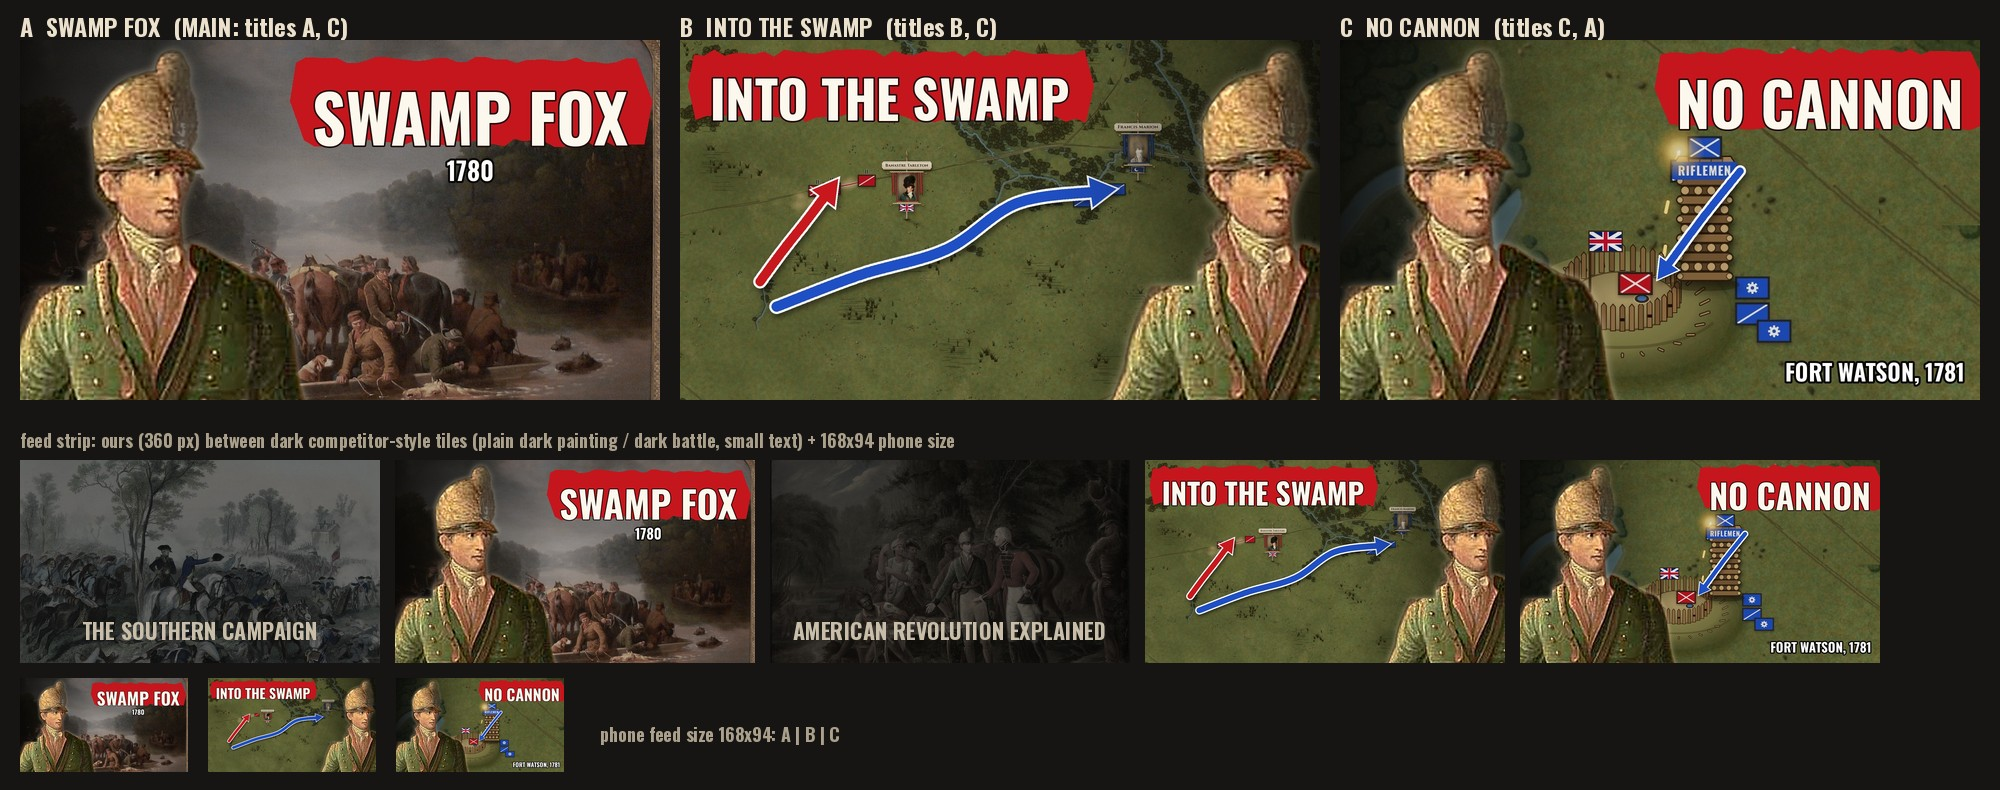
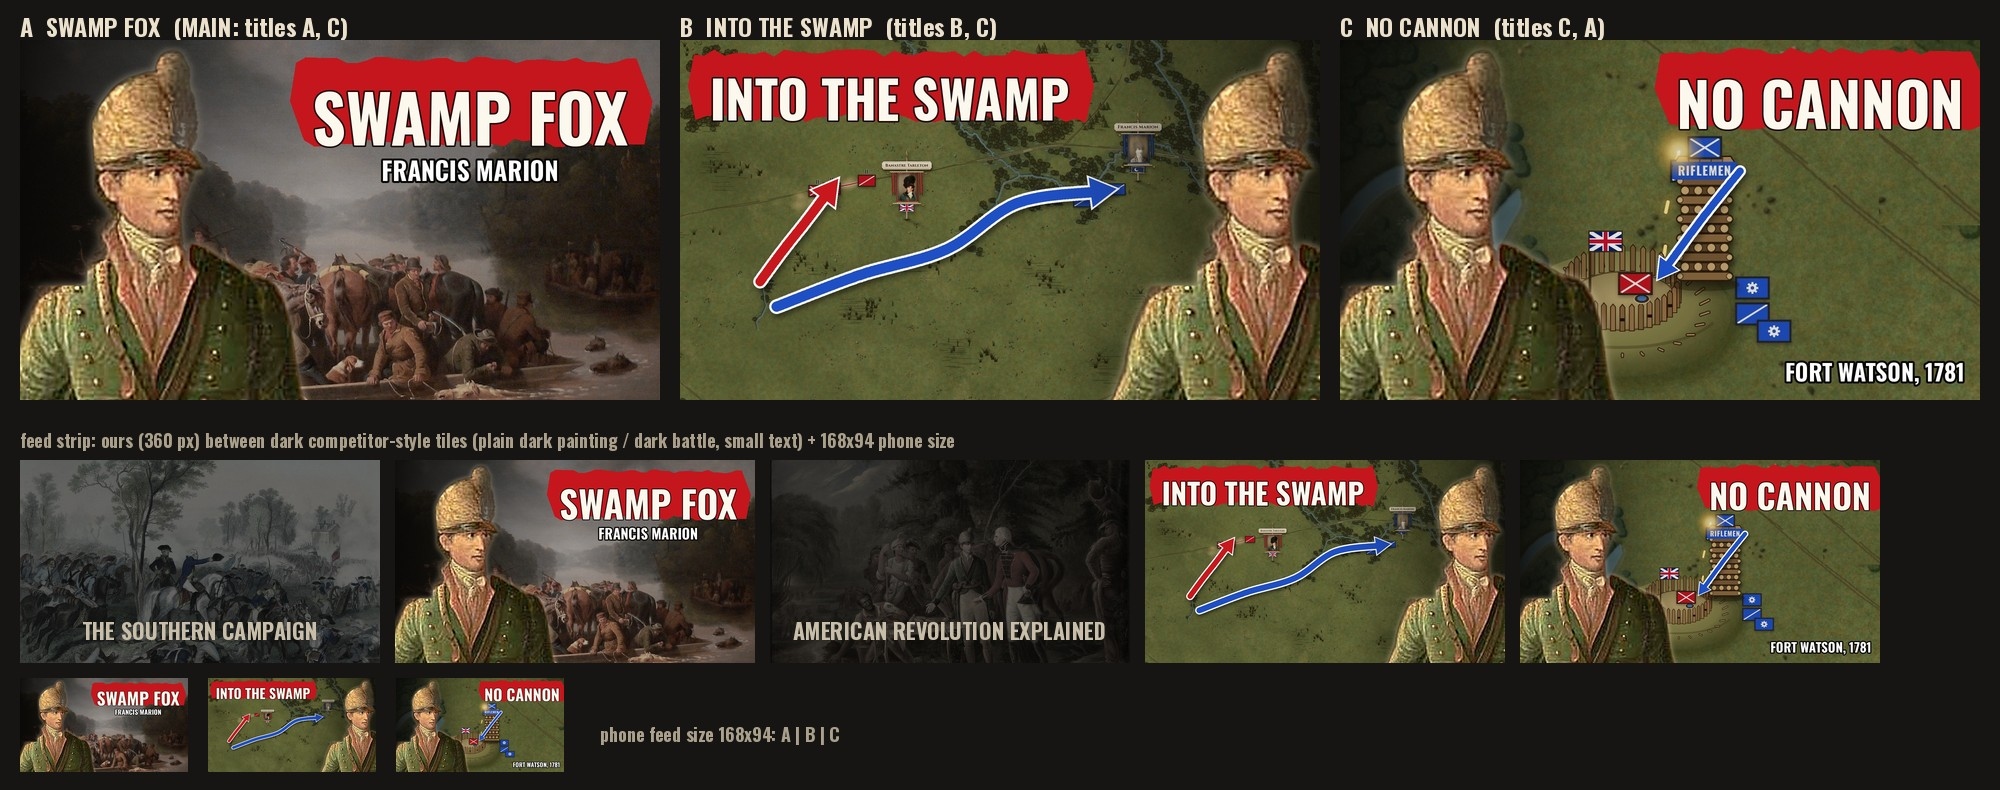
Marion #18: packaging (3 titles, 3 thumbnails + sheet, description, tags)
Claude-Session: https://claude.ai/code/session_011uJnjBffWtk5uPnY98RFHf

diff --git a/marion/tools/make_thumb_marion.py b/marion/tools/make_thumb_marion.py
@@ -118,7 +118,7 @@ rn = ImageEnhance.Brightness(ImageEnhance.Color(rn).enhance(0.6)).enhance(0.72)
 rn = ImageEnhance.Contrast(rn).enhance(1.1)
 A = rn.convert("RGBA"); shade(A, "left", 640)
 face(A, -60, 735)
-banner(A, "SWAMP FOX", 900, 40, size=132, tag="1780")
+banner(A, "SWAMP FOX", 900, 40, size=132, tag="FRANCIS MARION")
 pA = save(A, "A_SWAMP_FOX")
 
 # ---------- B: INTO THE SWAMP (our map, 8 Nov 1780 chase)

diff --git a/marion/youtube/packaging.md b/marion/youtube/packaging.md
@@ -1,0 +1,45 @@
+# Francis Marion #18 packaging (PACKAGING_GUIDE 0b) — draft 2026-11-14
+
+Not scored with vidIQ (no external services for this draft): the owner scores the titles (target >= 85) before upload.
+Every claim below is checked against `marion/research/FACT_NOTES.md` (row named in the last column). The Patriot (2000) is never referenced.
+
+## Titles
+| | Title | Chars | Claims -> FACT_NOTES row |
+|---|---|---|---|
+| **A** (locked format, recommended main) | Francis Marion's Top 3 Legendary Tactical Moves \| The Swamp Fox Tarleton Couldn't Catch | 87 | Move 2: "8 Nov: Tarleton followed seven hours, through swamps and defiles" + "Tarleton halted at Ox Swamp" (C) + "Tarleton's own account: an express from Cornwallis recalled him" (C). "Swamp Fox": "Swamp Fox first in print in the 1840s (Simms 1844)" (C; the video says the nickname came later) |
+| **B** (famous name / curiosity) | How the Swamp Fox Escaped Tarleton Through the Swamps of South Carolina | 71 | Move 2: "Marion fell back over the Woodyard swamp in the most profound darkness" (C, James); "Marion rode thirty-five miles, through woods, and swamps and bogs" (C, James); Tarleton's pursuit "seven hours" (C, Tarleton 1787) |
+| **C** (hybrid: name + the three moves) | Francis Marion, the Swamp Fox: Night Raids, a Swamp Chase and a Fort Taken Without Cannon | 89 | Move 1: Black Mingo 28-29 Sept + Tearcoat 24-25 Oct night attacks (C, James). Move 2: 8 Nov chase (C). Move 3: "No cannon on either side (the six-pounder Greene sent arrived too late)" at Fort Watson + "Lt. McKay surrendered 23 Apr" (C, Lee; Marion) |
+
+A alternatives (same format, also true): "| The Man Tarleton Couldn't Catch" (same rows); "| The Man Who Freed 150 Prisoners With 70 Riders" (Stakes rows: "Marion had seventy men" FIX, "~150 Maryland Continentals freed" C).
+Avoid (not sourced / false): "the devil himself could not catch him" as a fact (TRAD, James 1821, no witness); "40-foot tower" (no height stated: FIX); "Saved the Revolution / won the South" (not in FACT_NOTES); "Tarleton gave him the name" (nickname first in print 1844); any Patriot/Mel Gibson reference; "never lost" (Parker's Ferry withdrawal, Eutaw militia fell back).
+
+## Thumbnails (`thumb/`, tool `marion/tools/make_thumb_marion.py`, sheet `thumb/sheet.jpg`)
+Face in all three = Marion from John Blake White's painting (1810, MFA Boston, PD), cut out and given the face pop (contrast/colour + faint warm rim). It is the only colour image of Marion we have; no life portrait exists (FACT_NOTES "Honest ledger": "No portrait made in his lifetime is known"). The description says so. No AI images; all images from `marion/assets/media` (CREDITS.md) or our own map frames.
+
+| | File | Context image | Words | Fits titles | Claim -> FACT_NOTES |
+|---|---|---|---|---|---|
+| **1 (recommended MAIN)** | `marion-thumb-A_SWAMP_FOX.jpg` | Ranney, *Marion Crossing the Pee Dee* (1850, PD), darkened/desaturated | SWAMP FOX (+ small FRANCIS MARION) | A, C (B ok) | nickname row (C, Simms 1844); Ranney label in CREDITS ("PAINTED IN 1850") |
+| 2 | `marion-thumb-B_INTO_THE_SWAMP.jpg` | our map, 8 Nov 1780 chase (scene m2b at 21 s): Tarleton's red route, Marion's blue route, both banners | INTO THE SWAMP | B, C (A ok) | Woodyard swamp / "swamps and defiles" (C) |
+| 3 | `marion-thumb-C_NO_CANNON.jpg` | our map, Fort Watson 23 Apr 1781 (scene m3b at 56 s): Maham's log tower over the stockade, riflemen firing down | NO CANNON (+ small FORT WATSON, 1781) | C, A | "No cannon on either side" + tower + surrender 23 Apr (C) |
+
+Recommendation: **title A + thumbnail 1 (SWAMP FOX) as main**; Test & Compare thumbnails 2 and 3 (and title B/C as the title test). Why: the Arnold lesson (CHANNEL_LOG 2026-11-04) is that big thumbnails on a famous figure write the famous NAME/handle in big text on a warm image; "Swamp Fox" is the handle everyone searches, and the Ranney painting is the best-known Marion image. Thumbnails 2/3 are the DATA_RULES 3 sidebar play (our map, the only map tile among dark paintings).
+
+Checks done (0b item 3):
+- Spelling: SWAMP FOX, FRANCIS MARION, INTO THE SWAMP, NO CANNON, FORT WATSON, 1781 — all correct.
+- Flags: the map scenes' small British flags (Tarleton's banner pennant in m2b, the Fort Watson flag in m3b) render with St Patrick's red saltire (the post-1801 Union Flag). **On the thumbnails both are covered with our 1606 Union flag (`gb_flag_1606.png`).** Americans show the Moultrie crescent pennant (Marion) and the blue unit boxes; no 13-star flag needed on these crops. No stray insignia.
+- Map labels on the crops: "Banastre Tarleton", "Francis Marion" (banners, small), "RIFLEMEN" — right side, nothing hidden by the face. Thumbnail 3: Marion's small map banner (its 1876 lithograph head) was painted out so only one Marion face shows; on thumbnail 2 it stays (patching would cut the river) and is unreadable at feed size.
+- The whole face is inside the frame (helmet crest touches the top on 2/3, face clear). Feed strip: 360 px and 168x94 on `thumb/sheet.jpg`; all three words read at 168 px.
+- Picture matches the video: map frames are from our own scenes at those moments; the arrows on 2/3 follow the routes/fire drawn in the scene.
+
+## End screen (0b item 5)
+- From the busiest video to Marion: **Thomas** has the most views (125k, CHANNEL_LOG 2026-11-02) but is Civil War; **Morgan** (48k, the guide's named "busiest", same era, Tarleton again at Cowpens) is the natural feeder. Put the Marion end-screen element on **Morgan** (and on Thomas if the owner wants both); last ~20 s, + subscribe.
+- Marion's own end screen (last ~20 s): **Morgan** (Tarleton's next defeat, Cowpens, Jan 1781) + subscribe. Expect little (channel end-screen CTR 0.6%).
+
+## After upload (0b item 6)
+Log in `research/CHANNEL_LOG.md`: winning title + thumbnail, CTR, impressions days 1-3 by traffic source (DATA_RULES standard prompt), separately from retention at 0:30 / 0:40 / AVD.
+
+## Open questions for the owner
+1. Main title: A (locked format) or B (curiosity, "Swamp Fox" first)? vidIQ scores still to run.
+2. Busiest-video end screen: Morgan (same era) or Thomas (most views), or both?
+3. The face is a crop from White's 1810 painting (the sweet-potato dinner scene, a Weems tradition); only the head and coat are used, so the thumbnail does not show the myth. OK?
+4. Map scenes m2b/m3b: their small Union flags show the post-1801 St Patrick's saltire (wrong for 1780-81, STYLE rule). Fixed on the thumbnails only; the scene kit should be checked before the final render.
